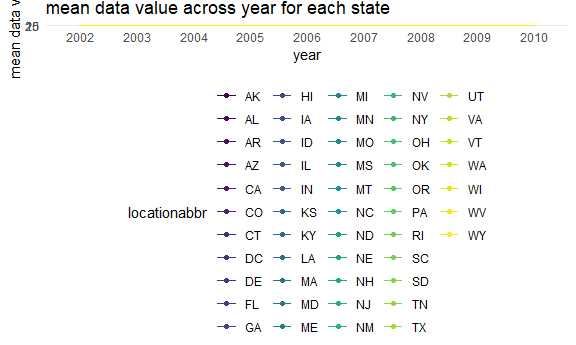
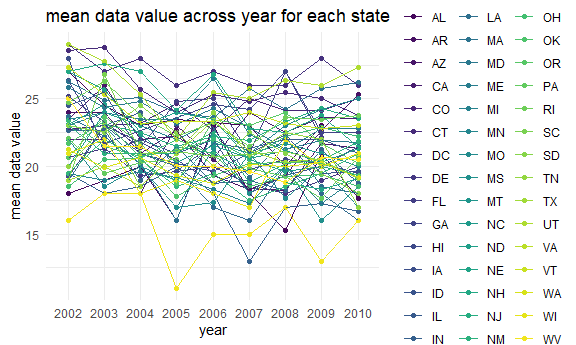
fixed some problems

diff --git a/p8105_hw3_xl3141.md b/p8105_hw3_xl3141.md
@@ -34,8 +34,17 @@ library(jsonlite)
     ##     flatten
 
 ``` r
-library(ggridges)
+library(lubridate)
+```
 
+    ## 
+    ## Attaching package: 'lubridate'
+
+    ## The following objects are masked from 'package:base':
+    ## 
+    ##     date, intersect, setdiff, union
+
+``` r
 knitr::opts_chunk$set(
   fig.width = 6,
   fig.asp = .6,
@@ -187,17 +196,6 @@ instacart %>%
 | packaged vegetables fruits | Organic Raspberries  |   5546 |    2 |
 
 ``` r
-library(lubridate)
-```
-
-    ## 
-    ## Attaching package: 'lubridate'
-
-    ## The following objects are masked from 'package:base':
-    ## 
-    ##     date, intersect, setdiff, union
-
-``` r
 instacart %>% 
   group_by(product_name) %>% 
   mutate(
@@ -258,7 +256,7 @@ brfss_smart2010 =
   brfss_smart2010 %>% 
     janitor::clean_names() %>% 
     filter(topic == "Overall Health") %>% 
-    mutate(response = factor(x = response, levels = c("Poor", "Fair", "Good", "Very Good", "Excellent"), ordered = TRUE)) %>% ##organize responses as a factortaking levels ordered from poor to excellent 
+    mutate(response = factor(x = response, levels = c("Poor", "Fair", "Good", "Very good", "Excellent"), ordered = TRUE)) %>% ##organize responses as a factortaking levels ordered from poor to excellent 
     drop_na(response)
 ```
 
@@ -273,42 +271,42 @@ brfss_smart2010 %>%
 
 | locationabbr | n\_obs |
 |:-------------|-------:|
-| AZ           |      8 |
-| CO           |     16 |
-| CT           |     28 |
-| DE           |     12 |
-| FL           |     28 |
-| GA           |     12 |
-| HI           |     16 |
-| ID           |      8 |
-| IL           |     12 |
-| IN           |      8 |
-| KS           |     12 |
-| LA           |     12 |
-| MA           |     32 |
-| MD           |     24 |
-| ME           |      8 |
-| MI           |     16 |
-| MN           |     16 |
-| MO           |      8 |
-| NC           |     28 |
-| NE           |     12 |
-| NH           |     20 |
-| NJ           |     32 |
-| NV           |      8 |
-| NY           |     20 |
-| OH           |     16 |
-| OK           |     12 |
-| OR           |     12 |
-| PA           |     40 |
-| RI           |     16 |
-| SC           |     12 |
-| SD           |      8 |
-| TN           |      8 |
-| TX           |      8 |
-| UT           |     20 |
-| VT           |     12 |
-| WA           |     16 |
+| AZ           |     10 |
+| CO           |     20 |
+| CT           |     35 |
+| DE           |     15 |
+| FL           |     35 |
+| GA           |     15 |
+| HI           |     20 |
+| ID           |     10 |
+| IL           |     15 |
+| IN           |     10 |
+| KS           |     15 |
+| LA           |     15 |
+| MA           |     40 |
+| MD           |     30 |
+| ME           |     10 |
+| MI           |     20 |
+| MN           |     20 |
+| MO           |     10 |
+| NC           |     35 |
+| NE           |     15 |
+| NH           |     25 |
+| NJ           |     40 |
+| NV           |     10 |
+| NY           |     25 |
+| OH           |     20 |
+| OK           |     15 |
+| OR           |     15 |
+| PA           |     50 |
+| RI           |     20 |
+| SC           |     15 |
+| SD           |     10 |
+| TN           |     10 |
+| TX           |     10 |
+| UT           |     25 |
+| VT           |     15 |
+| WA           |     20 |
 
 ``` r
 brfss_smart2010 %>% 
@@ -321,51 +319,51 @@ brfss_smart2010 %>%
 
 | locationabbr | n\_obs |
 |:-------------|-------:|
-| AL           |     12 |
-| AR           |     12 |
-| AZ           |     12 |
-| CA           |     48 |
-| CO           |     28 |
-| CT           |     20 |
-| DE           |     12 |
-| FL           |    164 |
-| GA           |     16 |
-| HI           |     16 |
-| IA           |      8 |
-| ID           |     24 |
-| IL           |      8 |
-| IN           |     12 |
-| KS           |     16 |
-| LA           |     20 |
-| MA           |     36 |
-| MD           |     48 |
-| ME           |     24 |
-| MI           |     16 |
-| MN           |     20 |
-| MO           |     12 |
-| MS           |      8 |
-| MT           |     12 |
-| NC           |     48 |
-| ND           |     12 |
-| NE           |     40 |
-| NH           |     20 |
-| NJ           |     76 |
-| NM           |     24 |
-| NV           |      8 |
-| NY           |     36 |
-| OH           |     32 |
-| OK           |     12 |
-| OR           |     16 |
-| PA           |     28 |
-| RI           |     20 |
-| SC           |     28 |
-| SD           |      8 |
-| TN           |     20 |
-| TX           |     64 |
-| UT           |     24 |
-| VT           |     24 |
-| WA           |     40 |
-| WY           |      8 |
+| AL           |     15 |
+| AR           |     15 |
+| AZ           |     15 |
+| CA           |     60 |
+| CO           |     35 |
+| CT           |     25 |
+| DE           |     15 |
+| FL           |    205 |
+| GA           |     20 |
+| HI           |     20 |
+| IA           |     10 |
+| ID           |     30 |
+| IL           |     10 |
+| IN           |     15 |
+| KS           |     20 |
+| LA           |     25 |
+| MA           |     45 |
+| MD           |     60 |
+| ME           |     30 |
+| MI           |     20 |
+| MN           |     25 |
+| MO           |     15 |
+| MS           |     10 |
+| MT           |     15 |
+| NC           |     60 |
+| ND           |     15 |
+| NE           |     50 |
+| NH           |     25 |
+| NJ           |     95 |
+| NM           |     30 |
+| NV           |     10 |
+| NY           |     45 |
+| OH           |     40 |
+| OK           |     15 |
+| OR           |     20 |
+| PA           |     35 |
+| RI           |     25 |
+| SC           |     35 |
+| SD           |     10 |
+| TN           |     25 |
+| TX           |     80 |
+| UT           |     30 |
+| VT           |     30 |
+| WA           |     50 |
+| WY           |     10 |
 
 ``` r
 excellent_df = 
@@ -387,7 +385,8 @@ ggp_data_value =
     title = "mean data value across year for each state",
     x = "year",
     y = "mean data value"
-  ) 
+  ) +
+  theme(legend.position = "right")
 
 ggp_data_value
 ```
